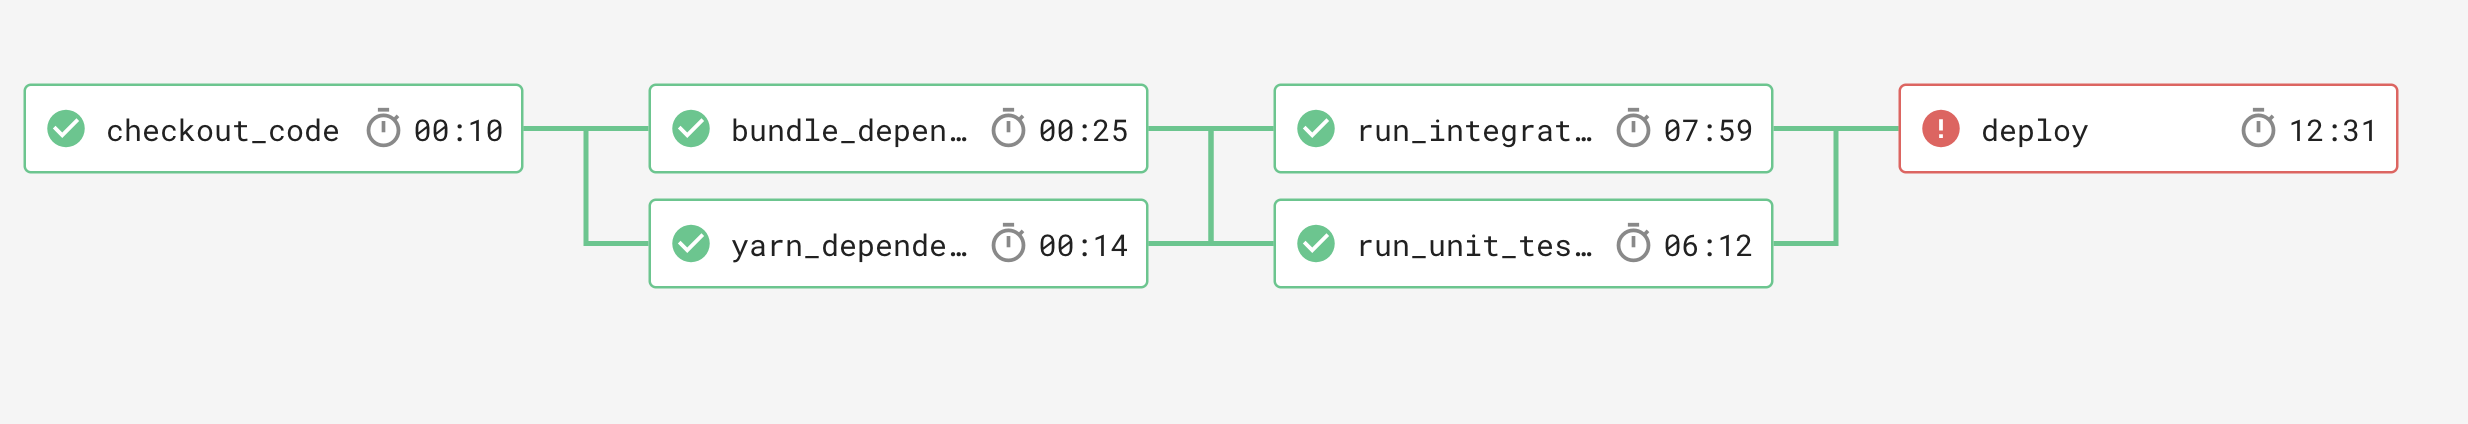
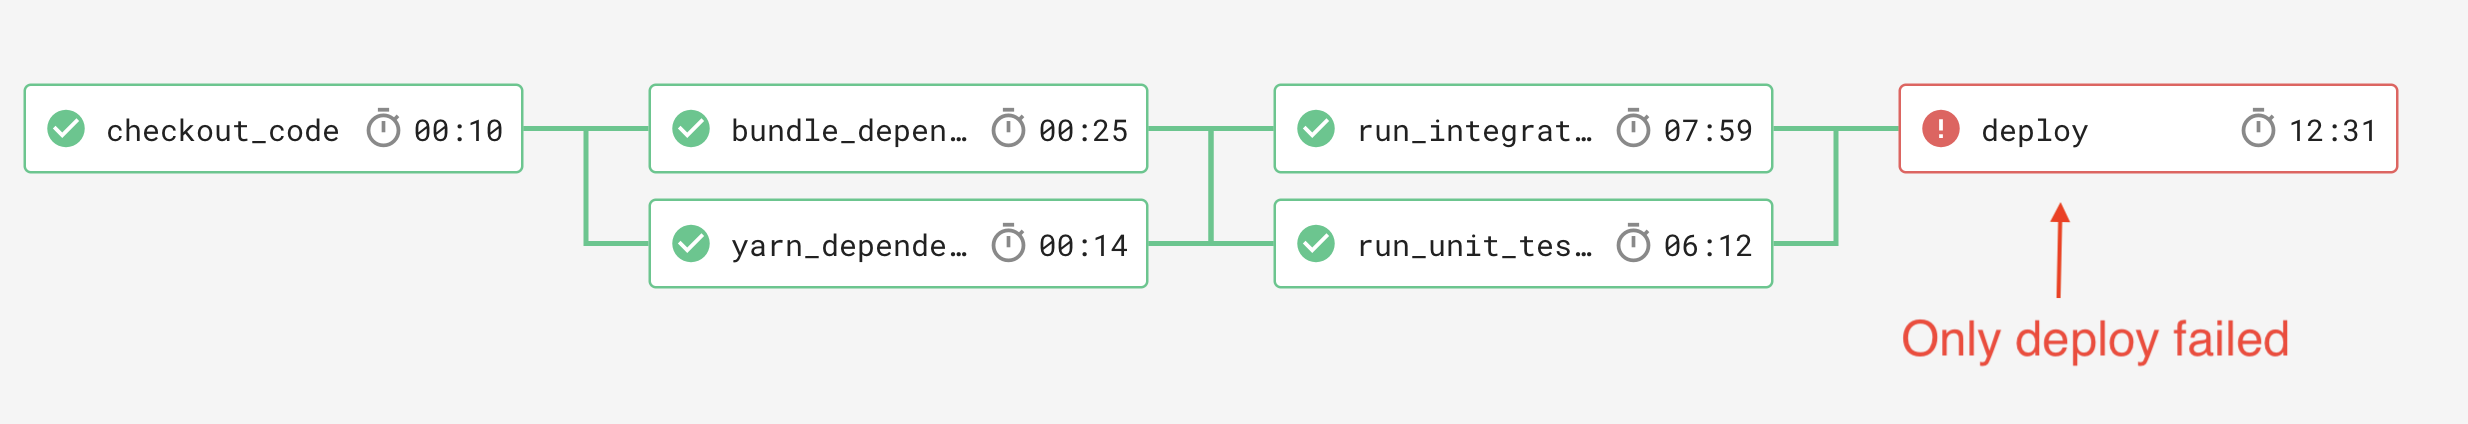
Publishing to gh-pages (publish.sh)

Changed region(s): [[0.78, 0.7665, 0.936, 0.8585], [0.8112, 0.4906, 0.8424, 0.5212]]

diff --git a/post/boost-ci-build-with-circleci-workflow/index.html b/post/boost-ci-build-with-circleci-workflow/index.html
@@ -106,8 +106,7 @@ job 並行，container 越多，可以並行的 job 也就越多。</p></li>
 
 <p>每次都循序跑實在有點沒效率，以上面的流程來說， <code>bundle_dependencies</code>、
 <code>yarn_dependencies</code> 可以在 <code>checkout_code</code> 結束之後同時執行； <code>run_unit_test</code> 以及
-<code>run_integration_test</code> 則是在 dependencies 安裝結束之後就可以並行，這也就是 workflow
-最主要的功能，在 CI 中只要定義好每一個 job ，就可以很輕易的設定好 workflow：</p>
+<code>run_integration_test</code> 則是在 dependencies 安裝結束之後就可以並行，這也就是 workflow 最主要的功能，在 CI 中只要定義好每一個 job ，就可以很輕易的設定好 workflow：</p>
 
 <pre><code class="language-ruby">workflows:
   version: 2
@@ -137,8 +136,7 @@ job 並行，container 越多，可以並行的 job 也就越多。</p></li>
 
 <p><img src="/img/workflow.png" alt="workflow" /></p>
 
-<p>可以看到最花時間的 <code>run_unit_test</code> 以及 <code>run_integration_test</code> 因爲並行的關係，只
-花了 6 分鐘就跑完了，而整個 CI 的時間則足足從 16 分鐘縮短到 7 分多鐘，速度變快超有感的阿！</p>
+<p>紅色框框圈起來的是並行執行的部分，可以看到最花時間的 <code>run_unit_test</code> 以及 <code>run_integration_test</code> 因爲並行的關係，只花了 6 分鐘就跑完了，而整個 CI 的時間則足足從 16 分鐘縮短到 7 分多鐘，速度變快超有感的阿！</p>
 
 <h2 id="重跑-workflow-失敗的-jobs">重跑 workflow 失敗的 jobs</h2>
 
@@ -149,10 +147,7 @@ job 並行，container 越多，可以並行的 job 也就越多。</p></li>
 
 <p><img src="/img/workflow-failed.png" alt="deploy 階段錯誤" /></p>
 
-<p>結果是在 ssh connect 到 server 的過程中 timeout 了，這可能是 server 那邊設定出了點問
-題，通常這種情況只要進到 server 改好設定，重跑一次 CI 就可以解決，不過如果只是 deploy
-階段出錯，重跑還需要重新設定環境、裝套件、跑完測試後才可以 deploy，實在太沒效率了，所
-以在 workflow 中，很貼心的讓你可以選擇只跑失敗的 jobs，進一步的節省時間。</p>
+<p>仔細檢查會發現是 deploy 階段在 ssh connect 到 server 的過程中 timeout 了，這可能是 server 那邊設定出了點問題，通常這種情況只要進到 server 改好設定，重跑一次 CI 就可以解決，不過如果只是 deploy 階段出錯，重跑還需要重新設定環境、裝套件、跑完測試後才可以 deploy，實在太沒效率了，所以在 workflow 中，很貼心的讓你可以選擇只跑失敗的 jobs，進一步的節省時間。</p>
 
 <p><img src="/img/workflow-rerun-failed.png" alt="only rerun failed jobs" /></p>
 
@@ -160,10 +155,7 @@ job 並行，container 越多，可以並行的 job 也就越多。</p></li>
 
 <h3 id="善用-cache">善用 Cache</h3>
 
-<p>在 workflow 中，每個 job 都是運作在一個獨立的 container 當中，爲了確保每個 job 可以獨
-立運行，所以可能會需要前一次 CI 或是前一個 job 產生的一些資料，像是每次跑 <code>bundle
-install</code> 時，只想要安裝之前沒裝過的 gem ，而不是整包重裝，或是像是跑測試時會需要
-bundle 裝好的資料，這時候就需要用到 cache 了。</p>
+<p>在 workflow 中，每個 job 都是運作在一個獨立的 container 當中，爲了確保每個 job 可以獨立運行，所以可能會需要前一次 CI 或是前一個 job 產生的一些資料，像是每次跑 <code>bundle install</code> 時，只想要安裝之前沒裝過的 gem ，而不是整包重裝，或是像是跑測試時會需要 bundle 裝好的資料，這時候就需要用到 cache 了。</p>
 
 <p>以 <code>bundle install</code> 爲例，裝好的 bundle 可以用 <code>save_cache</code> 儲存起來：</p>
 
@@ -181,13 +173,13 @@ bundle 裝好的資料，這時候就需要用到 cache 了。</p>
     - v1-gem-
 </code></pre>
 
-<p>這邊 CircleCI 給了一個彈性，可以設定多組 key，如果找不到和第一個 key 符合的資料，就會
-找最近產生，且前綴符合 <code>v1-gem</code> 的資料。</p>
+<p>這邊 CircleCI 給了一個彈性，可以設定多組 key， 萬一使用第一個 key (v1-gem-{{
+checksum &ldquo;Gemfile.lock&rdquo; }}) 找不到符合的結果，就會使用 <code>v1-gem-</code> 這個 key，去比對最近
+產生，且前綴符合 <code>v1-gem-</code> 的快取資料。</p>
 
 <h3 id="不要設計太小的-job">不要設計太小的 job</h3>
 
-<p>由於每個 job 在運作之前仍然需要準備好所需要的環境與資料才能夠運行，即使有做好 cache，
-取得 cache 的過程中，只要檔案稍大，仍然需要花費 10 - 20 秒的時間，如果是一個 30 秒內就可以執行完的 command，不太建議拉出來成爲一個獨立的 job，反而會拖慢整個 CI 的速度。</p>
+<p>由於每個 job 在運作之前仍然需要準備好所需要的環境與資料才能夠運行，即使有做好 cache，取得 cache 的過程中，只要檔案稍大，仍然需要花費 10 - 20 秒的時間，如果是一個 30 秒內就可以執行完的 command，不太建議拉出來成爲一個獨立的 job，反而會拖慢整個 CI 的速度。</p>
 
 <h2 id="最後">最後&hellip;</h2>
 
